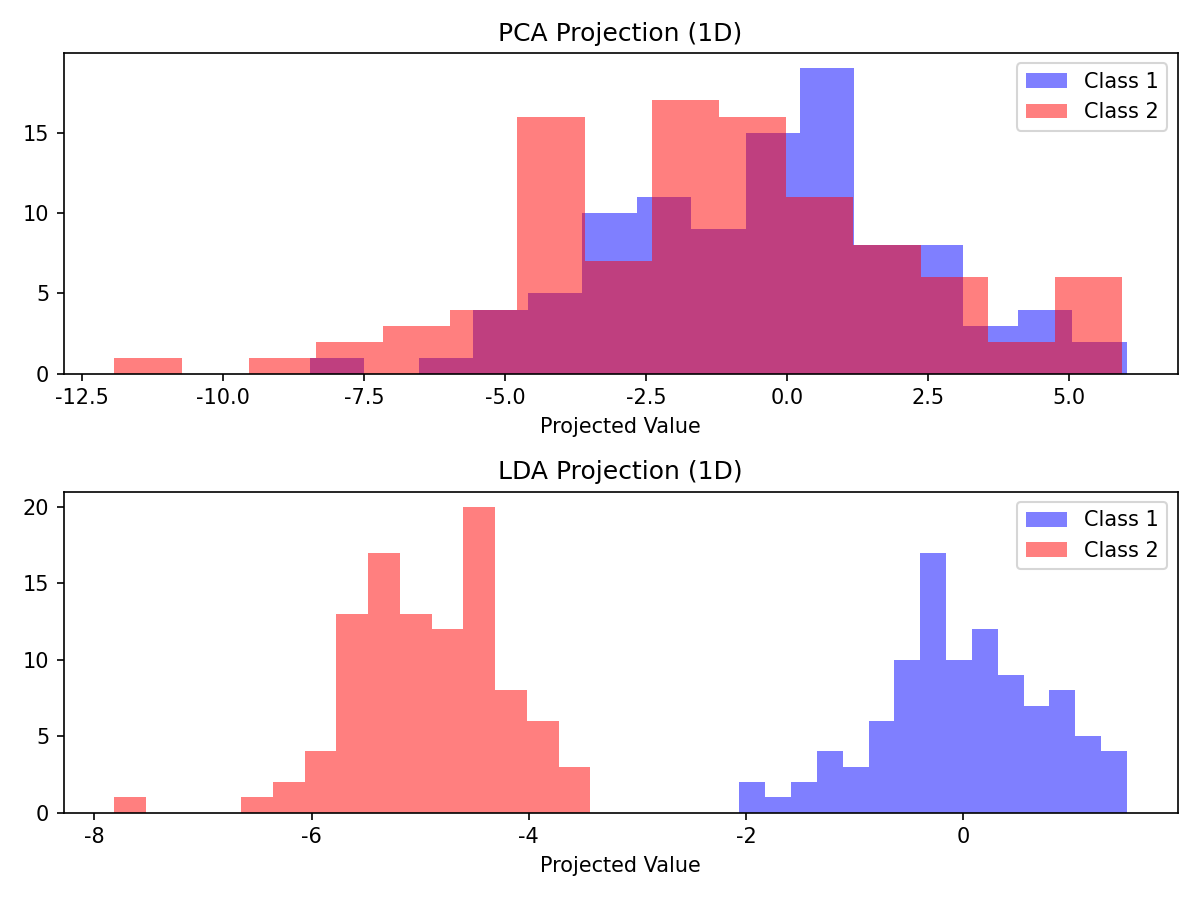
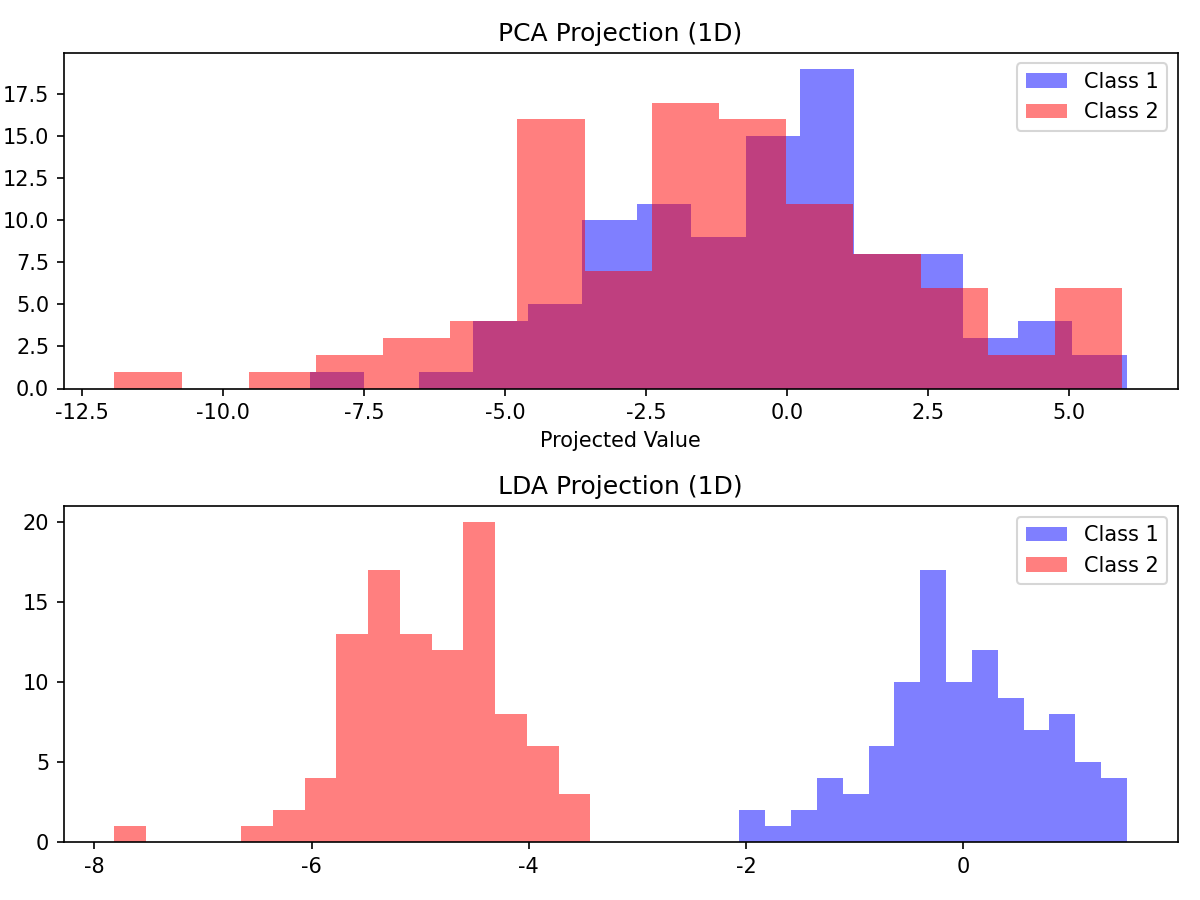
homework

diff --git a/machine-learning/HW1_code.py b/machine-learning/HW1_code.py
@@ -1,10 +1,10 @@
 import numpy as np
 import matplotlib.pyplot as plt
 import h5py
+# from scipy.io import loadmat  # 이걸로 안 열려서 h5py로 바꿈
 
 plt.rcParams['axes.unicode_minus'] = False
 
-# 시드 고정 (매번 결과 똑같이 나오게 하려고 설정함)
 np.random.seed(42)
 
 '''
@@ -40,9 +40,10 @@ X = np.vstack([class1, class2])
 X_mean = np.mean(X, axis=0)
 X_z = X - X_mean
 
-# PCA: 공분산 행렬 기반 (수식대로 1/N 적용)
+# 공분산 행렬 (수식대로 1/N 적용, np.cov()는 1/(N-1)이라 안 맞음)
 cov = (X_z.T @ X_z) / X.shape[0]
 evals_p, evecs_p = np.linalg.eigh(cov)
+# 오름차순이라 뒤집어야됨
 p_idx = np.argsort(evals_p)[::-1]
 evals_p = evals_p[p_idx]
 evecs_p = evecs_p[:, p_idx]
@@ -53,15 +54,20 @@ print("고유값:", evals_p)
 print("첫번째 주성분 방향:", v_pca)
 print("분산 설명 비율: %.1f%%" % (evals_p[0] / np.sum(evals_p) * 100))
 
-# LDA: Within/Between Scatter Matrix 계산
-m1_sub, m2_sub = np.mean(class1, 0), np.mean(class2, 0)
-Sw = (class1 - m1_sub).T @ (class1 - m1_sub) + (class2 - m2_sub).T @ (class2 - m2_sub)
+# LDA
+m1_sub = np.mean(class1, 0)
+m2_sub = np.mean(class2, 0)
 
+# within-class scatter
+S1 = (class1 - m1_sub).T @ (class1 - m1_sub)
+S2 = (class2 - m2_sub).T @ (class2 - m2_sub)
+Sw = S1 + S2
+
+# between-class scatter
 sb_m1 = (m1_sub - X_mean).reshape(-1, 1)
 sb_m2 = (m2_sub - X_mean).reshape(-1, 1)
 Sb = n * (sb_m1 @ sb_m1.T) + n * (sb_m2 @ sb_m2.T)
 
-# Sw^-1 * Sb 풀기
 l_vals, l_vecs = np.linalg.eig(np.linalg.inv(Sw) @ Sb)
 l_sort = np.argsort(np.abs(l_vals))[::-1]
 l_vals = l_vals[l_sort]
@@ -100,9 +106,11 @@ plt.savefig('fig2_pca_lda_vectors.png', dpi=150)
 plt.show()
 
 
-# 1-(3) 1차원 투영 히스토그램 비교
-proj_p1, proj_p2 = class1 @ v_pca, class2 @ v_pca
-proj_l1, proj_l2 = class1 @ v_lda, class2 @ v_lda
+# 1-(3) 1차원 투영해서 비교
+proj_p1 = class1 @ v_pca
+proj_p2 = class2 @ v_pca
+proj_l1 = class1 @ v_lda
+proj_l2 = class2 @ v_lda
 
 fig, ax = plt.subplots(2, 1, figsize=(8, 6))
 ax[0].hist(proj_p1, bins=15, alpha=0.5, color='b', label='Class 1')
@@ -113,7 +121,8 @@ ax[0].legend(); ax[0].set_xlabel('Projected Value')
 ax[1].hist(proj_l1, bins=15, alpha=0.5, color='b', label='Class 1')
 ax[1].hist(proj_l2, bins=15, alpha=0.5, color='r', label='Class 2')
 ax[1].set_title('LDA Projection (1D)')
-ax[1].legend(); ax[1].set_xlabel('Projected Value')
+ax[1].legend()
+# xlabel 깜빡함
 
 plt.tight_layout()
 plt.savefig('fig_projection_comparison.png', dpi=150)
@@ -124,16 +133,15 @@ plt.show()
 [문제 2] COIL20 데이터셋 분석
 '''
 
-# 데이터 로딩 (mat v7.3 버전이라 scipy 말고 h5py로 열어야 됨)
+# mat v7.3이라 h5py 사용
 with h5py.File('HW1_COIL20.mat', 'r') as f:
-    # 데이터가 (features, samples)로 되어있어서 전치함
-    X_raw = np.array(f['X']).T
+    X_raw = np.array(f['X']).T  # (features, samples) -> (samples, features)
     Y_raw = np.array(f['Y']).flatten()
 
 print("\n--- [2] COIL20 데이터 로드 완료 ---")
 print("데이터 크기:", X_raw.shape, "/ 클래스 수:", len(np.unique(Y_raw)), "개")
 
-# 샘플 이미지 시각화
+# 샘플 이미지 확인
 plt.figure(figsize=(10, 4))
 for i in range(10):
     plt.subplot(2, 5, i+1)
@@ -144,16 +152,18 @@ plt.suptitle('COIL20 Sample Images (Class 1~10)')
 plt.savefig('fig_coil20_samples.png', dpi=150)
 plt.show()
 
-# --- PCA 분석 ---
+
+# PCA (문제1이랑 같은 방식으로)
 x_c_mean = np.mean(X_raw, axis=0)
 x_centered = X_raw - x_c_mean
 c_cov = (x_centered.T @ x_centered) / X_raw.shape[0]
 
 evals_c, evecs_c = np.linalg.eigh(c_cov)
 s_idx = np.argsort(evals_c)[::-1]
-evals_c, evecs_c = evals_c[s_idx], evecs_c[:, s_idx]
+evals_c = evals_c[s_idx]
+evecs_c = evecs_c[:, s_idx]
 
-# 분산 설명 비율 확인 (95%)
+# 누적 분산
 acc_var = np.cumsum(evals_c) / np.sum(evals_c)
 d_target = np.argmax(acc_var >= 0.95) + 1
 
@@ -161,7 +171,6 @@ print("\n--- [2] PCA 분석 결과 ---")
 print("2차원으로 줄였을때 정보보존율: %.1f%%" % (acc_var[1] * 100))
 print("95%% 보존하려면 %d개 주성분 필요 (원래 %d차원)" % (d_target, X_raw.shape[1]))
 
-# 누적 분산 그래프
 plt.figure(figsize=(8, 5))
 plt.plot(range(1, min(51, len(acc_var)+1)),
          acc_var[:50] * 100, 'bo-', markersize=3)
@@ -175,8 +184,9 @@ plt.legend(); plt.grid(ls=':')
 plt.savefig('fig_cumulative_variance.png', dpi=150)
 plt.show()
 
-# PCA 2D 시각화
-X_p_2d = x_centered @ evecs_c[:, :2]
+# 2차원 투영
+W_pca = evecs_c[:, :2]
+X_p_2d = x_centered @ W_pca
 
 classes = np.unique(Y_raw).astype(int)
 colors = plt.cm.tab20(np.linspace(0, 1, 20))
@@ -196,9 +206,11 @@ plt.savefig('fig3_coil20_pca_2d.png', dpi=150, bbox_inches='tight')
 plt.show()
 
 
-# --- LDA 분석 ---
-# 고차원 Sw 역행렬 터지는 문제 방지를 위해 PCA로 선축소
-X_pca_pre = x_centered @ evecs_c[:, :d_target]
+# LDA
+# 1024차원에서 바로 하면 Sw 역행렬이 안됨 (singular matrix)
+# -> PCA로 95%까지 줄인 다음에 LDA 적용
+W_pca95 = evecs_c[:, :d_target]
+X_pca_pre = x_centered @ W_pca95
 
 m_total = np.mean(X_pca_pre, 0)
 sw_real = np.zeros((d_target, d_target))
@@ -207,28 +219,28 @@ sb_real = np.zeros((d_target, d_target))
 for c in classes:
     xc = X_pca_pre[Y_raw == c]
     mc = np.mean(xc, 0)
-    # Within
     sw_real += (xc - mc).T @ (xc - mc)
-    # Between
+
     mdiff = (mc - m_total).reshape(-1, 1)
     sb_real += len(xc) * (mdiff @ mdiff.T)
 
-# 역행렬 구할때 에러나서 작은 값 더해줌
+# 역행렬 구할때 또 에러나서 작은 값 더해줌 (정규화)
 sw_real += np.eye(d_target) * 1e-6
+
 l_vals_c, l_vecs_c = np.linalg.eig(np.linalg.inv(sw_real) @ sb_real)
 
 l_idx_c = np.argsort(np.abs(l_vals_c.real))[::-1]
 l_vals_c = l_vals_c[l_idx_c].real
 l_vecs_c = l_vecs_c[:, l_idx_c].real
-v_lda_final = l_vecs_c[:, :2]
 
 print("\n--- [2] LDA 결과 ---")
 print("상위 5개 고유값:", l_vals_c[:5].round(4))
 n_meaningful = np.sum(np.abs(l_vals_c) > 1e-10)
 print("의미있는 판별벡터:", n_meaningful, "개 (클래스수-1 = 19개가 최대)")
 
-# LDA 2D 시각화
-X_l_2d = X_pca_pre @ v_lda_final
+# LDA 2차원 투영
+W_lda = l_vecs_c[:, :2]
+X_l_2d = X_pca_pre @ W_lda
 
 plt.figure(figsize=(10, 8))
 for i, cls in enumerate(classes):
@@ -244,7 +256,8 @@ plt.tight_layout()
 plt.savefig('fig3_coil20_lda_2d.png', dpi=150, bbox_inches='tight')
 plt.show()
 
-# PCA vs LDA 비교 차트
+
+# 나란히 비교
 fig, (ax1, ax2) = plt.subplots(1, 2, figsize=(18, 7))
 
 for i, cls in enumerate(classes):
@@ -265,7 +278,7 @@ ax2.set_xlabel('1st LDA Component')
 ax2.set_ylabel('2nd LDA Component')
 ax2.set_title('COIL20 LDA 2-Dim')
 ax2.legend(bbox_to_anchor=(1.0, 1), loc='upper left', fontsize=7)
-ax2.grid(ls=':')
+# grid 빼먹음
 
 plt.suptitle('COIL20: PCA vs LDA', fontsize=14, y=1.02)
 plt.tight_layout()
